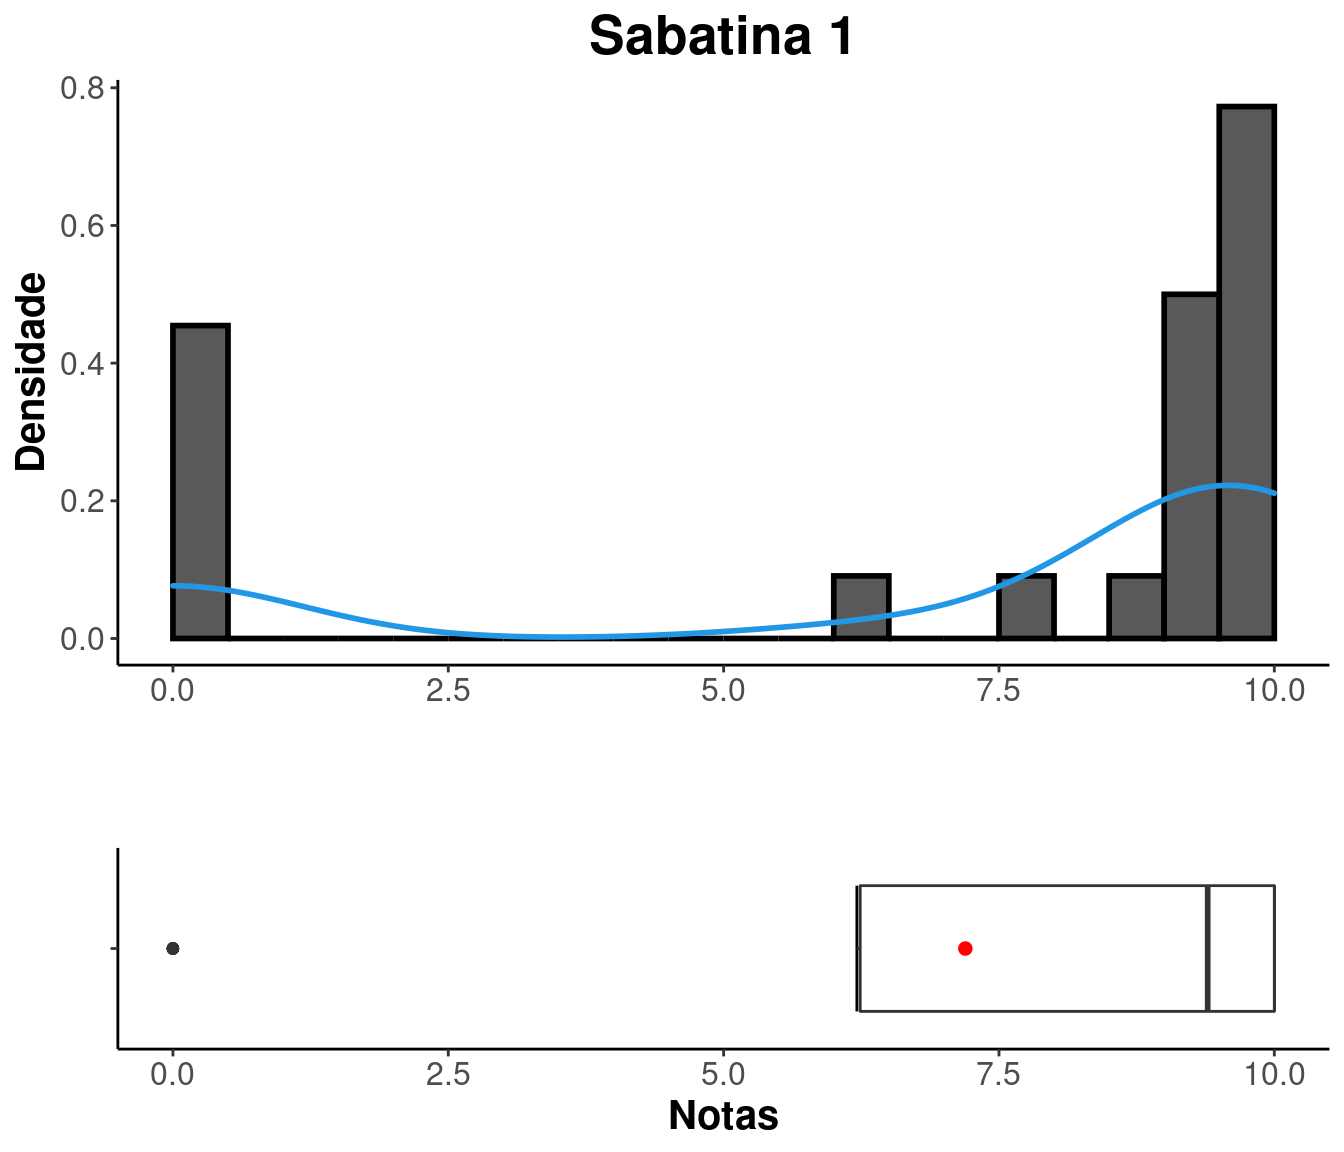
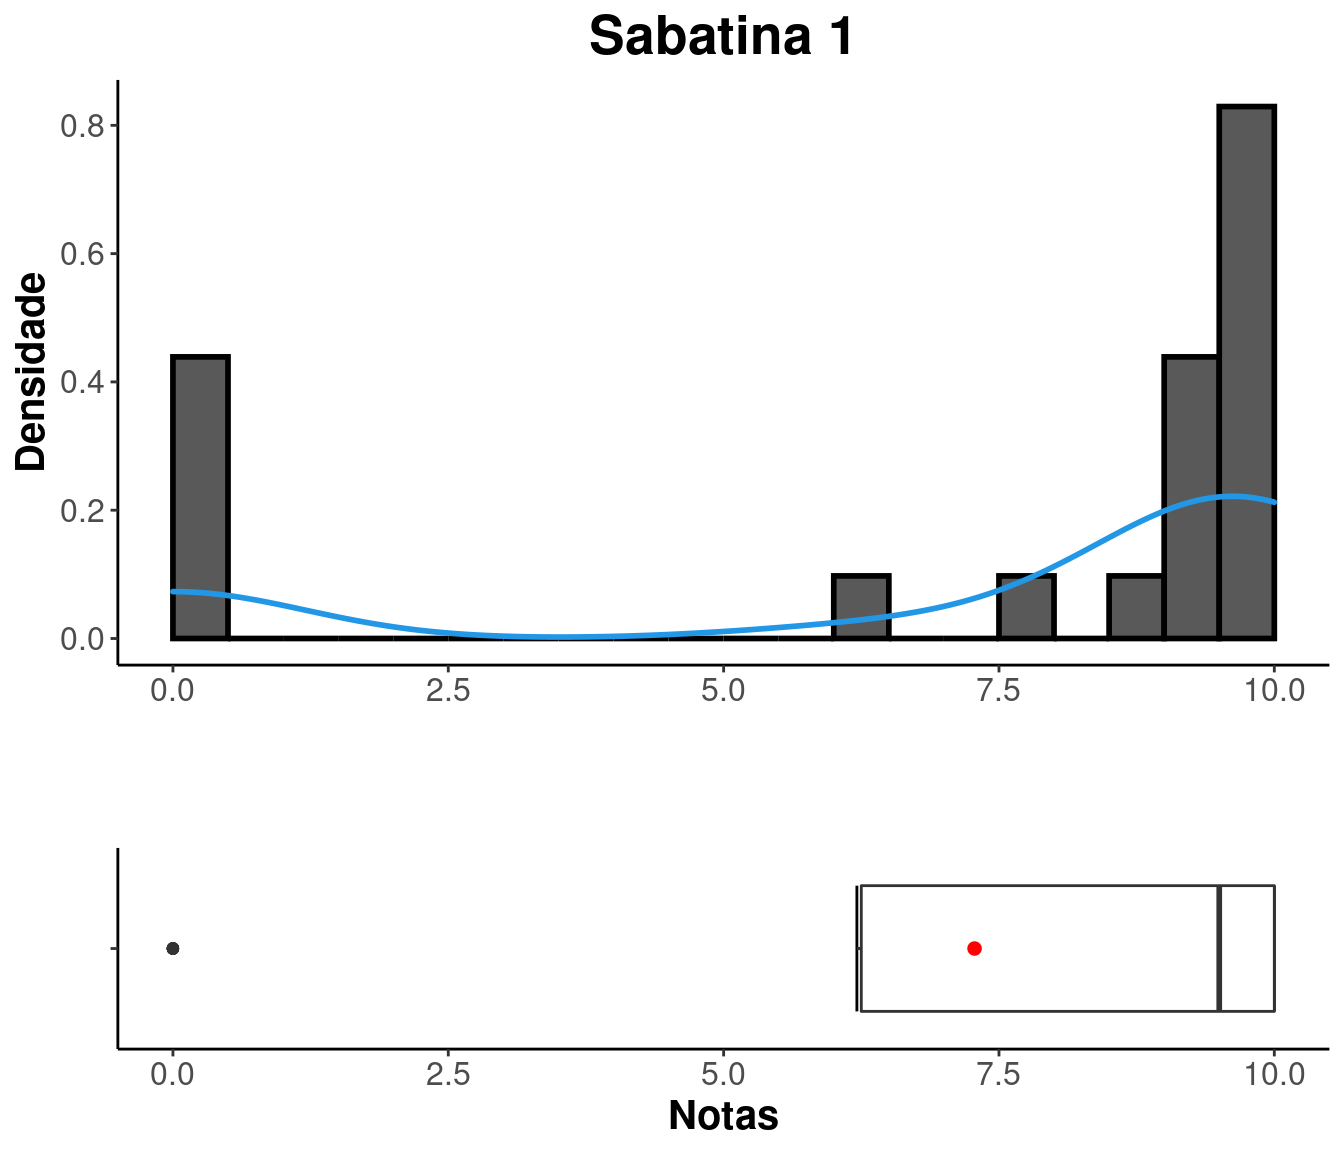
atualiza pagina

diff --git a/notas.html b/notas.html
@@ -364,8 +364,8 @@ $(document).ready(function () {
 <p>Busque sua situação digitando seu GRR na caixa “Search”.</p>
 <p><br />
 </p>
-<div id="htmlwidget-31ae5b7a85e0dfab083d" style="width:100%;height:auto;" class="datatables html-widget"></div>
-<script type="application/json" data-for="htmlwidget-31ae5b7a85e0dfab083d">{"x":{"filter":"none","vertical":false,"editable":{"target":"cell","disable":{"columns":null},"numeric":[1,2,3],"area":[]},"data":[["GRR20182666","GRR20222157","GRR20224231","GRR20222161","GRR20215807","GRR20212977","GRR20177458","GRR20211361","GRR20210361","GRR20173235","GRR20212937","GRR20213825","GRR2022159","GRR20224216","GRR20195301","GRR20212891","GRR20220385","GRR20224212","GRR20222151","GRR20224913","GRR20213156","GRR20224912","GRR20212978","GRR20222165","GRR20202359","GRR20224220","GRR20220395","GRR20207140","GRR20222164","GRR20224907","GRR20133223","GRR20223475","GRR20205597","GRR20222059","GRR20200165","GRR20223472","GRR20223951","GRR20220370","GRR20203430","GRR20222142","GRR20215605","GRR20212968","GRR20221911","GRR20220367"],[0,0,1,1,4,2,4,3,1,1,0,2,0,0,1,2,2,0,0,0,5,0,0,1,5,0,2,5,0,0,0,2,0,0,1,2,0,1,2,1,1,0,0,0],[10,8.75,9.5,9.5,0,9.08,0,9.08,9.54,0,9.08,10,10,9.5,10,7.71,0,10,10,10,0,10,9.75,9.75,9.5,0,0,0,9.75,10,9.29,0,9.25,0,9.75,9.5,10,10,6.21,6.25,7.96,8.58,9.29,10],[10,8.75,10,8.75,0,0,0,0,0,10,7.78,0,8.89,10,8.89,2.5,0,7.5,0,8.57,0,8.33,10,0,0,0,10,0,10,10,5.14,0,10,10,10,3.75,10,10,6.57,10,8.75,1.71,8.33,10]],"container":"<table class=\"cell-border stripe\">\n  <thead>\n    <tr>\n      <th>GRR<\/th>\n      <th>FALTAS<\/th>\n      <th>S1<\/th>\n      <th>S2<\/th>\n    <\/tr>\n  <\/thead>\n<\/table>","options":{"columnDefs":[{"className":"dt-right","targets":[1,2,3]}],"order":[],"autoWidth":false,"orderClasses":false}},"evals":[],"jsHooks":[]}</script>
+<div id="htmlwidget-38dcb20f0208d652a111" style="width:100%;height:auto;" class="datatables html-widget"></div>
+<script type="application/json" data-for="htmlwidget-38dcb20f0208d652a111">{"x":{"filter":"none","vertical":false,"editable":{"target":"cell","disable":{"columns":null},"numeric":[1,2,3,4],"area":[]},"data":[["GRR20182666","GRR20222157","GRR20224231","GRR20222161","GRR20215807","GRR20177458","GRR20210361","GRR20173235","GRR20212937","GRR20213825","GRR2022159","GRR20224216","GRR20195301","GRR20212891","GRR20220385","GRR20224212","GRR20222151","GRR20224913","GRR20224912","GRR20212978","GRR20222165","GRR20202359","GRR20224220","GRR20220395","GRR20207140","GRR20222164","GRR20224907","GRR20133223","GRR20223475","GRR20205597","GRR20222059","GRR20200165","GRR20223472","GRR20223951","GRR20220370","GRR20203430","GRR20222142","GRR20215605","GRR20212968","GRR20221911","GRR20220367"],[1,1,2,2,5,6,1,1,1,2,0,1,3,3,3,0,0,1,0,0,2,7,0,2,7,0,0,0,4,0,0,1,2,0,1,3,1,0,1,1,0],[10,8.75,9.5,9.5,0,0,9.54,0,9.08,10,10,9.5,10,7.71,0,10,10,10,10,9.75,9.75,9.5,0,0,0,9.75,10,9.29,0,9.25,0,9.75,9.5,10,10,6.21,6.25,7.96,8.58,9.29,10],[10,8.75,10,8.75,0,0,0,10,7.78,0,8.89,10,8.89,2.5,0,7.5,0,8.57,8.33,10,0,0,0,10,0,10,10,5.14,0,10,10,10,3.75,10,10,6.57,10,8.75,1.71,8.33,10],[10,8.75,3.33,8.17,0,0,7.08,6.33,9,10,8.33,8.75,0,0,0,10,10,9.17,7.08,10,9.17,0,10,0,9,10,9.17,0,0,10,10,10,0.42,7.5,10,7,10,7.17,8.33,6.25,9.17]],"container":"<table class=\"cell-border stripe\">\n  <thead>\n    <tr>\n      <th>GRR<\/th>\n      <th>FALTAS<\/th>\n      <th>S1<\/th>\n      <th>S2<\/th>\n      <th>S3<\/th>\n    <\/tr>\n  <\/thead>\n<\/table>","options":{"columnDefs":[{"className":"dt-right","targets":[1,2,3,4]}],"order":[],"autoWidth":false,"orderClasses":false}},"evals":[],"jsHooks":[]}</script>
 <hr />
 </div>
 <div id="análise-das-notas"
@@ -396,9 +396,9 @@ class="section level1 tabset tabset-fade tabset-pills">
 <tbody>
 <tr class="odd">
 <td align="center">0</td>
-<td align="center">6.24</td>
-<td align="center">7.195</td>
-<td align="center">9.395</td>
+<td align="center">6.25</td>
+<td align="center">7.278</td>
+<td align="center">9.5</td>
 <td align="center">10</td>
 <td align="center">10</td>
 </tr>
@@ -434,8 +434,8 @@ class="section level1 tabset tabset-fade tabset-pills">
 <tr class="odd">
 <td align="center">0</td>
 <td align="center">0</td>
-<td align="center">5.777</td>
-<td align="center">8.33</td>
+<td align="center">6.2</td>
+<td align="center">8.57</td>
 <td align="center">10</td>
 <td align="center">10</td>
 </tr>
@@ -443,6 +443,43 @@ class="section level1 tabset tabset-fade tabset-pills">
 </table>
 </center>
 <p><img src="notas_files/figure-html/unnamed-chunk-5-1.png" width="672" style="display: block; margin: auto;" /></p>
+</div>
+<div id="s3" class="section level2">
+<h2>S3</h2>
+<center>
+<table style="width:83%;">
+<colgroup>
+<col width="12%" />
+<col width="16%" />
+<col width="11%" />
+<col width="13%" />
+<col width="16%" />
+<col width="12%" />
+</colgroup>
+<thead>
+<tr class="header">
+<th align="center">Minimo</th>
+<th align="center">Quartil_1</th>
+<th align="center">Media</th>
+<th align="center">Mediana</th>
+<th align="center">Quartil_3</th>
+<th align="center">Maximo</th>
+</tr>
+</thead>
+<tbody>
+<tr class="odd">
+<td align="center">0</td>
+<td align="center">3.33</td>
+<td align="center">6.565</td>
+<td align="center">8.33</td>
+<td align="center">10</td>
+<td align="center">10</td>
+</tr>
+</tbody>
+</table>
+</center>
+<p><img src="notas_files/figure-html/unnamed-chunk-7-1.png" width="672" style="display: block; margin: auto;" /></p>
+<hr />
 <hr />
 <center>
 <table>

diff --git a/aulas.html b/aulas.html
@@ -378,7 +378,7 @@ quantitativas.</li>
 <p><strong>Semana 5</strong></p>
 <ul>
 <li>18/04/23 (ter) - Aula 9: PROVA 1</li>
-<li>20/04/23 (qui) - Aula 10</li>
+<li>20/04/23 (qui) - Aula 10: Introdução a probabilidades</li>
 </ul>
 <p><strong>Semana 6</strong></p>
 <ul>
